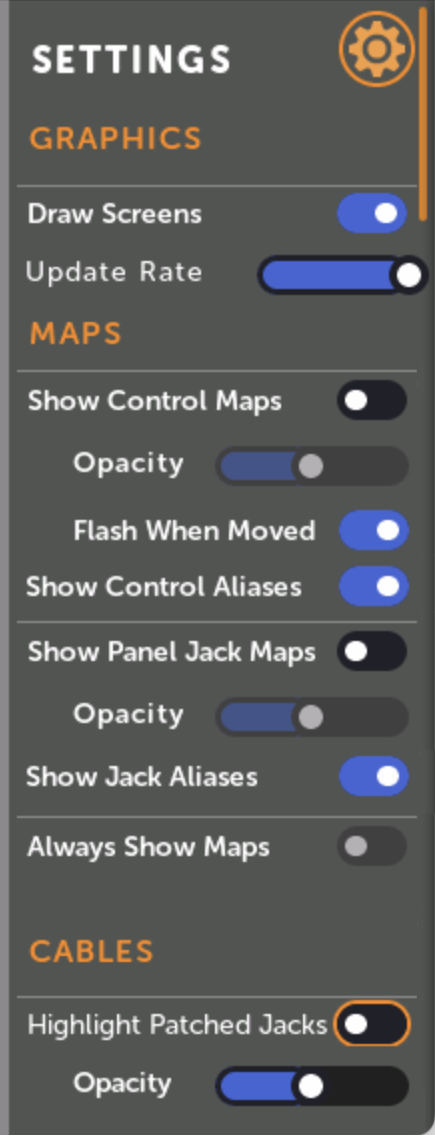
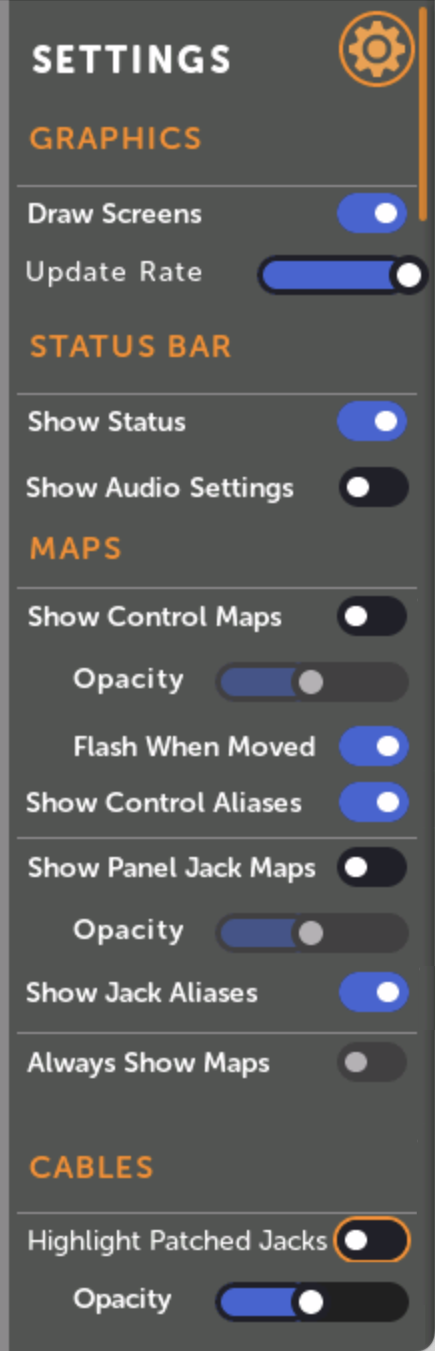
Patch/Module settings

diff --git a/docs/module_patch_settings.md b/docs/module_patch_settings.md
@@ -46,16 +46,17 @@ screen per 30Hz refresh, then 15Hz refresh, etc..)
 
 ### STATUS BAR
 
-*Patch View only*
 
-The status bar is visible in the Patch View in the upper-right corner.
-It displays the current CPU usage, and optionally more information.
+The status bar is visible in the upper-right corner of the Patch View, and the
+upper-left corner of the Module View. It displays the current CPU usage, and
+optionally the audio sample rate and block size.
 
-- __Show Audio Settings__: This option shows the current audio sample rate and blocksize
-in the status bar. For example, `48k/128 33%`
+- __Show Audio Settings__: This option shows the current audio sample rate and block size
+  in the status bar before the CPU load. For example, `48k/128 33%`
 
-- __Keep Status on top__: When enabled, the status bar will always be on shown in the upper-right corner,
-on top of everything else, even if the page scrolls.
+- __Show Status__ (*Module View*) / __Show Status on Top__ (*Patch View*): When
+  enabled, the status bar will always be on shown in the corner, on
+  top of everything else, even if the page scrolls.
 
 
 ---
@@ -133,24 +134,24 @@ This option is disabled if both Show Control Maps and Show Panel Jack Maps are o
 <div class="grid cards" markdown>
 -   __Patch Info__ 
 
-    The Patch Info window is opened by clicking the (I) info icon when viewing a patch.
+    The Patch Info window is opened by clicking the `(i)` info icon when viewing a patch.
 
 -   [![Patch View Info icon](./img/patchview-info-icon.png){ .half }](./img/patchview-info-icon.png)
 </div>
 <div class="grid cards" markdown>
--   The patch name and file name are shows at the top
+-   The Patch Info window contains information about the patch:
 
-    If the patch contains MIDI note mappings, the MIDI polyphony channels is shown below the file name.
+     - Patch name 
+     - File name
+     - MIDI polyphony channels (if relevant)
+     - Patch description
+     - Patch's sample rate and block size
+
     
 -   [![Patch View Description](./img/patch-info-audio-settings.png){ .half }](./img/patch-info-audio-settings.png)
 </div>
 <div class="grid cards" markdown>
--   Click on the description to edit the text.
-   
--   [![Patch View Description Edit](./img/patch-description-edit.png){ .half }](./img/patch-description-edit.png)
-</div>
-<div class="grid cards" markdown>
--   __Description__
+-   __Patch Description__
      
     Click on the description to edit the text.
    
